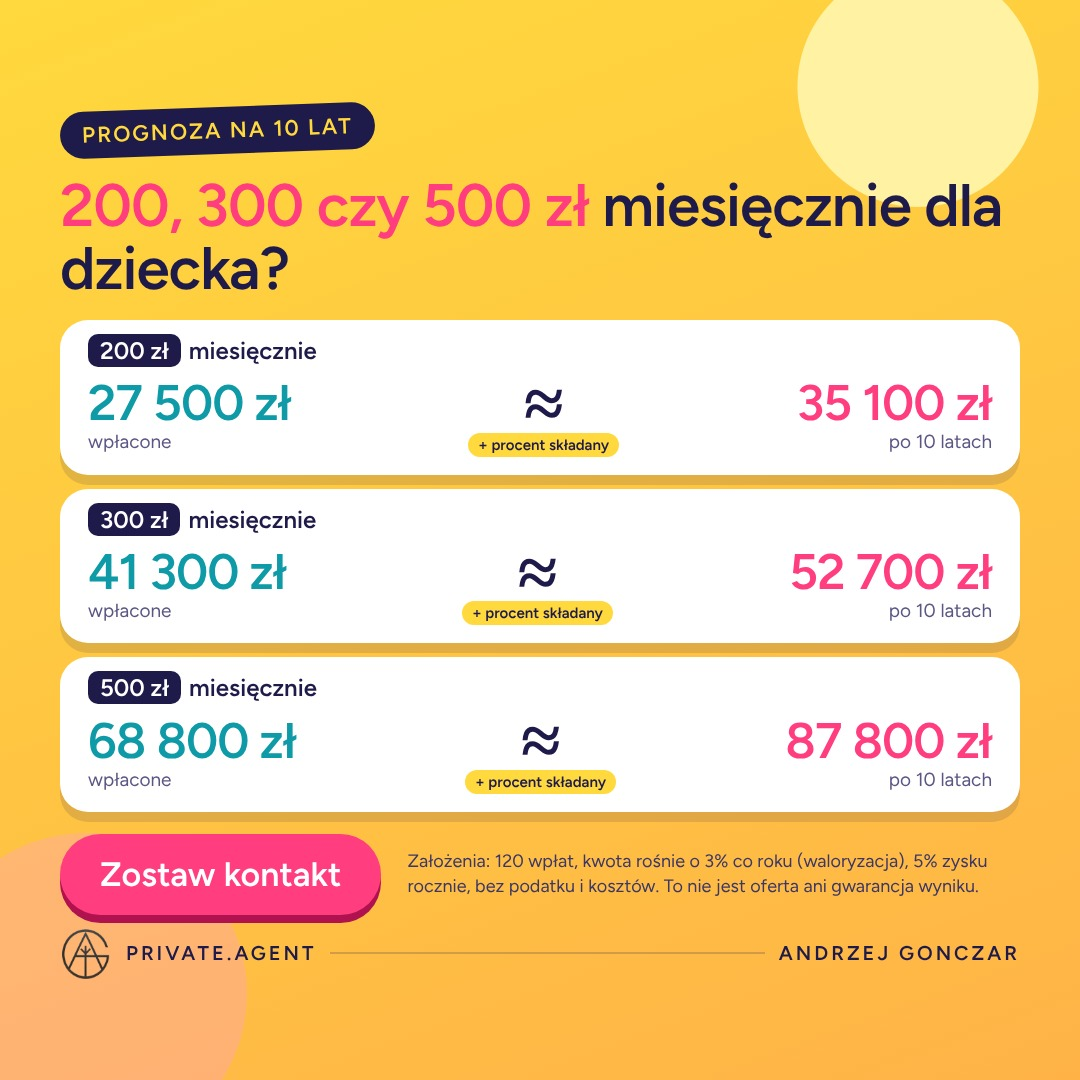
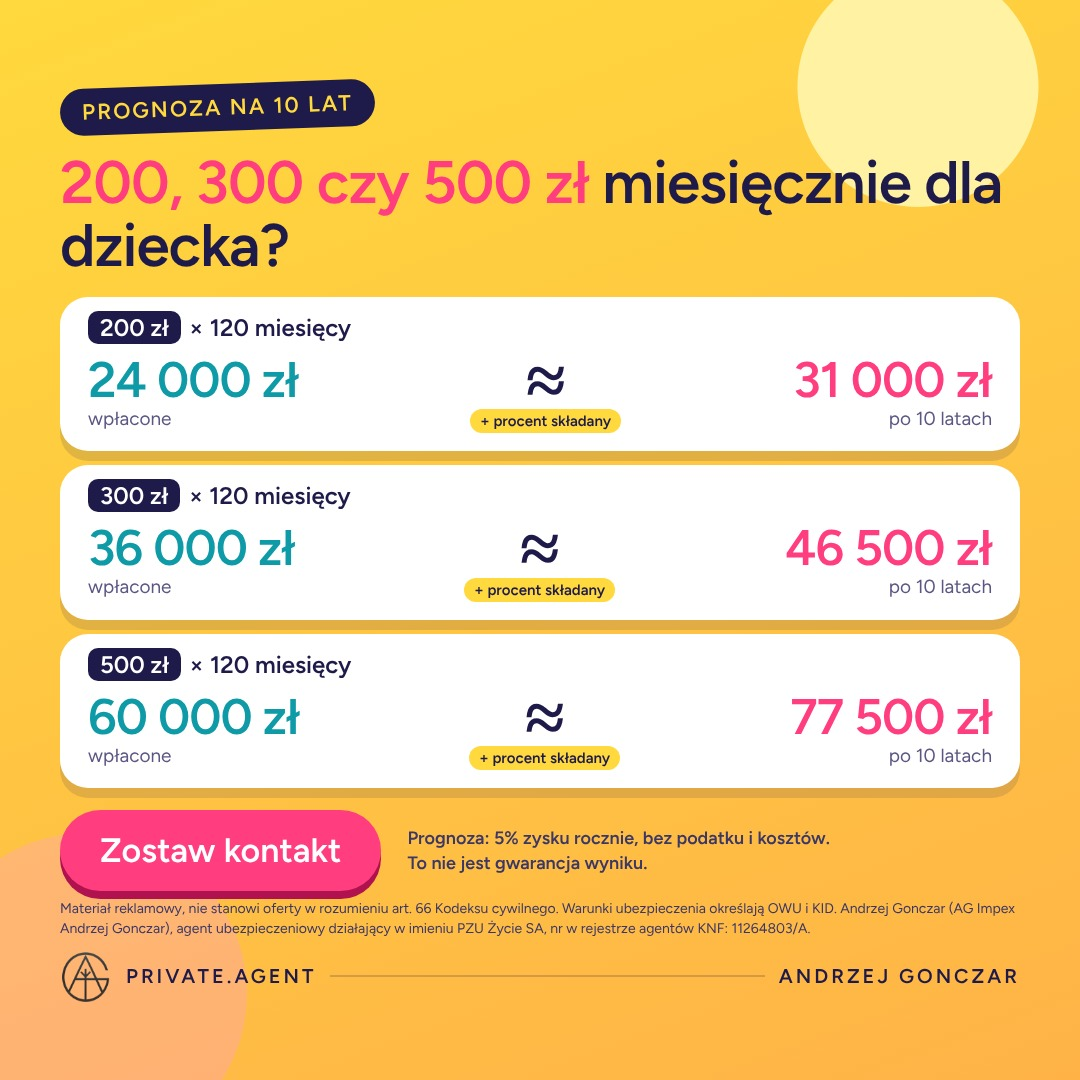
Kampania POSAG: bez waloryzacji, klauzula prawna, nr agenta; wstrzymana do zgody PZU
Claude-Session: https://claude.ai/code/session_01PysvEAD1NGhp7e2gF3vHjf

Changed region(s): [[0.0306, 0.0611, 0.9472, 0.9472]]

diff --git a/instagram/reklamy/posag-2026-11/reklama-posag.html b/instagram/reklamy/posag-2026-11/reklama-posag.html
@@ -26,24 +26,28 @@ h1 em{font-style:normal;color:#FF3D7F}
 .bot{display:flex;align-items:center;gap:26px;margin-top:var(--gap2)}
 .cta{background:#FF3D7F;color:#fff;font:600 34px FG;padding:20px 40px;border-radius:60px;box-shadow:0 8px 0 #B0124F;white-space:nowrap}
 .note{font:400 18px/1.4 FG;color:#3B3766}
+.note.big{font-size:21px;font-weight:600}
+.legal{font:400 16px/1.4 FG;color:#3B3766;margin-top:16px}
+.nr{background:#fff8;padding:0 6px;border-radius:6px}
 .foot{display:flex;align-items:center;gap:14px;margin-top:22px;font:600 20px FG;letter-spacing:3px;color:#1E1B4B}
 .foot img{width:52px;height:52px;filter:brightness(0.35) saturate(0)}
 .foot .line{height:2px;flex:1;background:#1E1B4B33}
 </style></head><body>
 <div class="ey">PROGNOZA NA 10 LAT</div>
 <h1><em>200, 300 czy 500 zł</em> miesięcznie dla dziecka?</h1>
-<div class="c"><div class="lab"><b>200 zł</b>miesięcznie</div><div class="eq">
- <div class="l"><div class="n">27 500 zł</div><div class="s">wpłacone</div></div>
+<div class="c"><div class="lab"><b>200 zł</b>× 120 miesięcy</div><div class="eq">
+ <div class="l"><div class="n">24 000 zł</div><div class="s">wpłacone</div></div>
  <div class="mid"><div class="ap">≈</div><div class="pc">+ procent składany</div></div>
- <div class="r"><div class="n">35 100 zł</div><div class="s">po 10 latach</div></div></div></div>
-<div class="c"><div class="lab"><b>300 zł</b>miesięcznie</div><div class="eq">
- <div class="l"><div class="n">41 300 zł</div><div class="s">wpłacone</div></div>
+ <div class="r"><div class="n">31 000 zł</div><div class="s">po 10 latach</div></div></div></div>
+<div class="c"><div class="lab"><b>300 zł</b>× 120 miesięcy</div><div class="eq">
+ <div class="l"><div class="n">36 000 zł</div><div class="s">wpłacone</div></div>
  <div class="mid"><div class="ap">≈</div><div class="pc">+ procent składany</div></div>
- <div class="r"><div class="n">52 700 zł</div><div class="s">po 10 latach</div></div></div></div>
-<div class="c"><div class="lab"><b>500 zł</b>miesięcznie</div><div class="eq">
- <div class="l"><div class="n">68 800 zł</div><div class="s">wpłacone</div></div>
+ <div class="r"><div class="n">46 500 zł</div><div class="s">po 10 latach</div></div></div></div>
+<div class="c"><div class="lab"><b>500 zł</b>× 120 miesięcy</div><div class="eq">
+ <div class="l"><div class="n">60 000 zł</div><div class="s">wpłacone</div></div>
  <div class="mid"><div class="ap">≈</div><div class="pc">+ procent składany</div></div>
- <div class="r"><div class="n">87 800 zł</div><div class="s">po 10 latach</div></div></div></div>
-<div class="bot"><div class="cta">Zostaw kontakt</div><div class="note">Założenia: 120 wpłat, kwota rośnie o 3% co roku (waloryzacja), 5% zysku rocznie, bez podatku i kosztów. To nie jest oferta ani gwarancja wyniku.</div></div>
+ <div class="r"><div class="n">77 500 zł</div><div class="s">po 10 latach</div></div></div></div>
+<div class="bot"><div class="cta">Zostaw kontakt</div><div class="note big">Prognoza: 5% zysku rocznie, bez podatku i kosztów.<br>To nie jest gwarancja wyniku.</div></div>
+<div class="legal">Materiał reklamowy, nie stanowi oferty w rozumieniu art. 66 Kodeksu cywilnego. Warunki ubezpieczenia określają OWU i KID. Andrzej Gonczar (AG Impex Andrzej Gonczar), agent ubezpieczeniowy działający w imieniu PZU Życie SA, nr w rejestrze agentów KNF: 11264803/A.</div>
 <div class="foot"><img src="logo-t.png">PRIVATE.AGENT<div class="line"></div>ANDRZEJ GONCZAR</div>
 </body></html>

diff --git a/instagram/reklamy/posag-2026-11/kampania.md b/instagram/reklamy/posag-2026-11/kampania.md
@@ -7,10 +7,14 @@ Biłgoraj + 40 km, 18+, 20 zł dziennie, test A/B przez 7 dni.
 - reklama-posag-1x1.jpg – Marketplace, prawa kolumna
 - reklama-posag-9x16.jpg – Stories i Reels
 
-Prognoza: wpłaty co miesiąc przez 10 lat, 5% zysku rocznie, waloryzacja wpłat 3% co roku, bez podatku i kosztów.
-- 200 zł: ok. 35 100 zł (wpłaty ok. 27 500 zł)
-- 300 zł: ok. 52 700 zł (wpłaty ok. 41 300 zł)
-- 500 zł: ok. 87 800 zł (wpłaty ok. 68 800 zł)
+Prognoza: 200/300/500 zł co miesiąc przez 120 miesięcy, 5% zysku rocznie, bez waloryzacji, podatku i kosztów.
+- 200 zł: wpłacone 24 000 zł ≈ 31 000 zł
+- 300 zł: wpłacone 36 000 zł ≈ 46 500 zł
+- 500 zł: wpłacone 60 000 zł ≈ 77 500 zł
+
+Klauzula na grafice: Materiał reklamowy, nie stanowi oferty w rozumieniu art. 66 Kodeksu cywilnego. Warunki ubezpieczenia określają OWU i KID. Andrzej Gonczar (AG Impex Andrzej Gonczar), agent ubezpieczeniowy działający w imieniu PZU Życie SA, nr w rejestrze agentów KNF: 11264803/A.
+
+STATUS: WSTRZYMANA do pisemnej zgody PZU Życie (umowa agencyjna § 5 ust. 2 – klauzula marketingowa).
 
 ## Wariant A – historia
 Tekst główny:
@@ -25,8 +29,8 @@ Przycisk: Dowiedz się więcej
 ## Wariant B – wiedza
 Tekst główny:
 3 rzeczy, które warto wiedzieć o odkładaniu dla dziecka:
-1. Czas robi więcej niż kwota. 200 zł przez 10 lat to ok. 35 tys. zł w prognozie.
-2. Waloryzacja sprawia, że wpłaty rosną razem z cenami.
+1. Czas robi więcej niż kwota. 200 zł przez 10 lat to 24 000 zł wpłat i ok. 31 000 zł w prognozie.
+2. Najkrótsza umowa trwa 10 lat, więc to plan, nie skarbonka na wakacje.
 3. Polisa posagowa łączy oszczędzanie z ochroną na wypadek, gdyby rodzica zabrakło.
 Jestem agentem ubezpieczeniowym PZU. Zostaw kontakt, a policzę prognozę dla wybranej kwoty. 👇
 
@@ -42,7 +46,7 @@ Pytanie (wielokrotny wybór): Jaką kwotę miesięcznie chcesz rozważyć? – 2
 Pola: imię, numer telefonu.
 Polityka prywatności: link do agprivate.pl.
 Zgoda RODO: treść od Andrzeja.
-Ekran podziękowania: Dziękuję! Oddzwonię w ciągu 24 godzin z prognozą dla wybranej kwoty. Założenia: 5% zysku rocznie, waloryzacja 3%. To nie jest oferta ani gwarancja wyniku.
+Ekran podziękowania: Dziękuję! Oddzwonię w ciągu 24 godzin z prognozą dla wybranej kwoty. Prognoza przy założeniu 5% zysku rocznie, nie stanowi oferty ani gwarancji wyniku.
 
 ## Ustawienia w Menedżerze reklam
 - Cel: Kontakty, formularz błyskawiczny.
